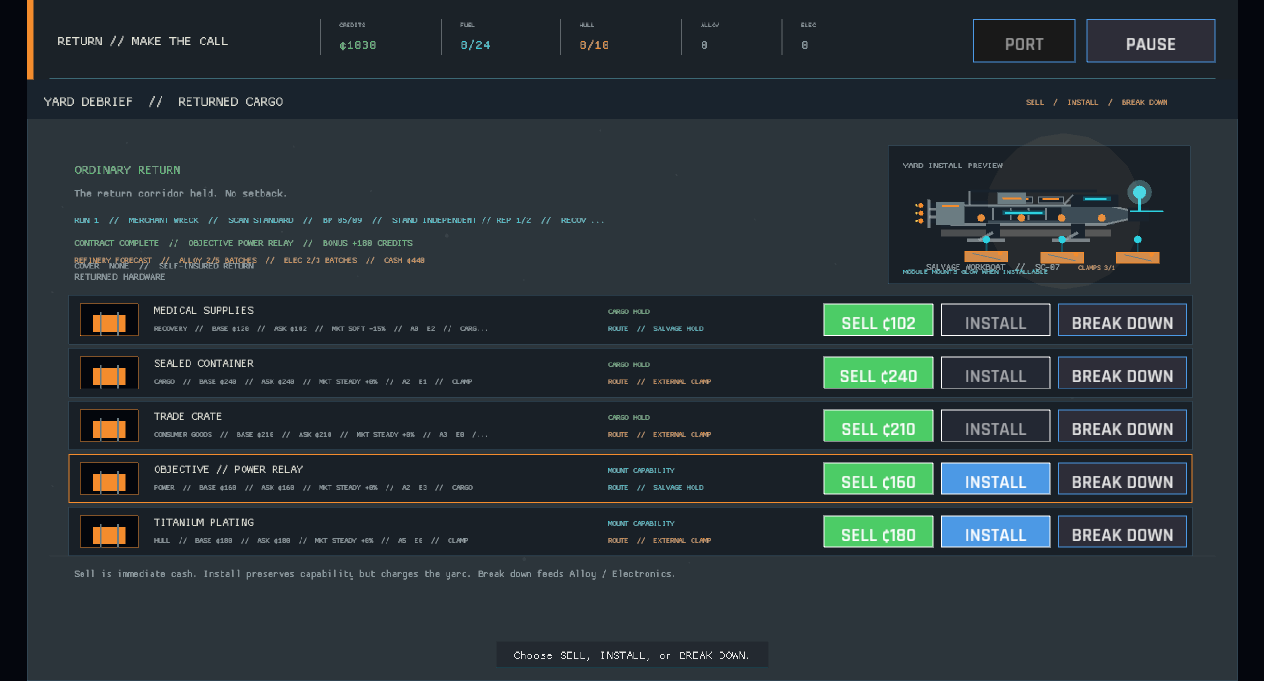
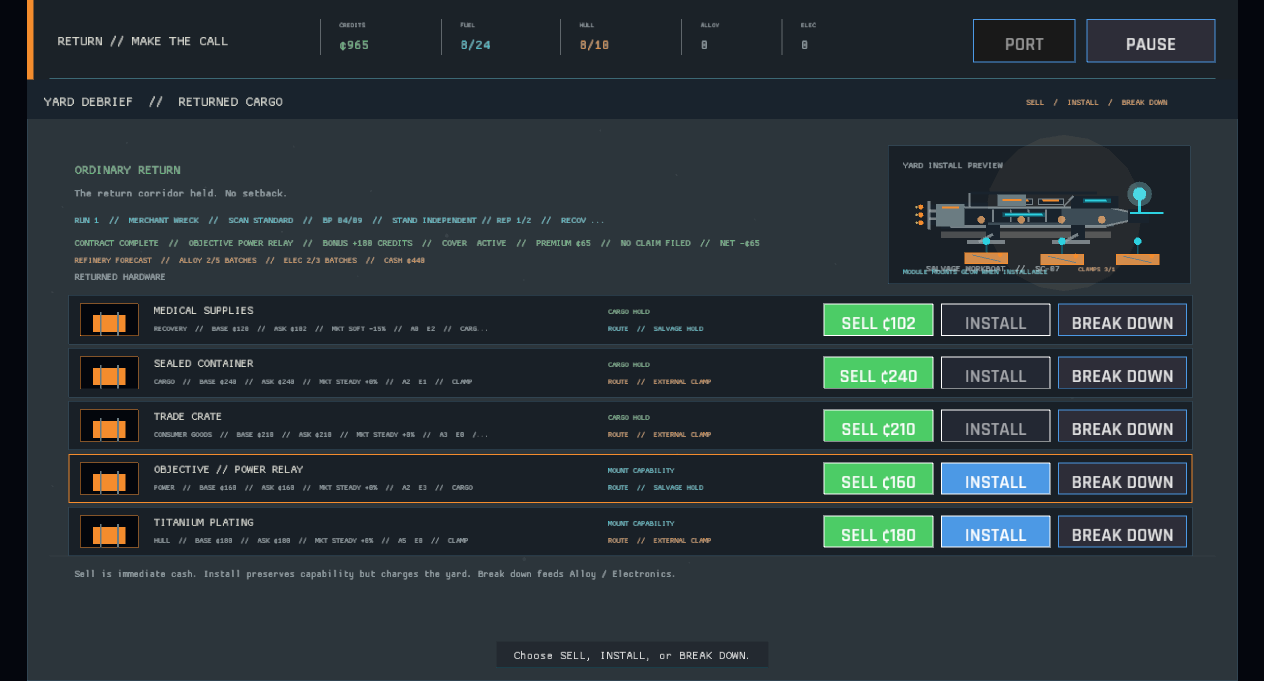
The return desk shows the true price of protection (coverage net balance)
The debrief now balances each paid premium against its settled claim and presents the result on the same contract line, keeping the refinery forecast and returned hardware clear. The insured results capture exercises the new readout for touch-scale verification.

diff --git a/src/ui/decision_panel.rs b/src/ui/decision_panel.rs
@@ -125,52 +125,37 @@ fn draw_debrief(ctx: &UiContext<'_>) {
                     )
                 },
             );
-            draw_text(
-                match objective.as_ref().map(|objective| objective.state) {
-                    Some(crate::state::contracts::ContractObjectiveState::Complete) => format!(
-                        "CONTRACT COMPLETE  //  OBJECTIVE {}  //  BONUS +{} CREDITS",
-                        target_name.to_uppercase(),
-                        site.contract_reward
-                    ),
-                    Some(crate::state::contracts::ContractObjectiveState::Failed) => format!(
-                        "CONTRACT FAILED  //  OBJECTIVE {} LOST  //  NO BONUS",
-                        target_name.to_uppercase()
-                    ),
-                    _ => format!(
-                        "CONTRACT OPEN  //  OBJECTIVE {}  //  +{} CREDITS",
-                        target_name.to_uppercase(),
-                        site.contract_reward
-                    ),
-                },
-                50.0,
-                260.0,
-                12.0,
-                match objective.as_ref().map(|objective| objective.state) {
-                    Some(crate::state::contracts::ContractObjectiveState::Complete) => {
-                        visual_theme::safe()
-                    }
-                    Some(crate::state::contracts::ContractObjectiveState::Failed) => {
-                        visual_theme::warning()
-                    }
-                    _ => visual_theme::amber(),
-                },
+            let contract_label = match objective.as_ref().map(|objective| objective.state) {
+                Some(crate::state::contracts::ContractObjectiveState::Complete) => format!(
+                    "CONTRACT COMPLETE  //  OBJECTIVE {}  //  BONUS +{} CREDITS",
+                    target_name.to_uppercase(),
+                    site.contract_reward
+                ),
+                Some(crate::state::contracts::ContractObjectiveState::Failed) => format!(
+                    "CONTRACT FAILED  //  OBJECTIVE {} LOST  //  NO BONUS",
+                    target_name.to_uppercase()
+                ),
+                _ => format!(
+                    "CONTRACT OPEN  //  OBJECTIVE {}  //  +{} CREDITS",
+                    target_name.to_uppercase(),
+                    site.contract_reward
+                ),
+            };
+            let contract_color = match objective.as_ref().map(|objective| objective.state) {
+                Some(crate::state::contracts::ContractObjectiveState::Complete) => {
+                    visual_theme::safe()
+                }
+                Some(crate::state::contracts::ContractObjectiveState::Failed) => {
+                    visual_theme::warning()
+                }
+                _ => visual_theme::amber(),
+            };
+            let contract_readout = ctx.session.last_voyage().map_or_else(
+                || contract_label.clone(),
+                |record| format!("{contract_label}  //  {}", insurance_debrief_label(record)),
             );
+            draw_text(contract_readout, 50.0, 260.0, 12.0, contract_color);
         }
-    }
-    if let Some(record) = ctx.session.last_voyage() {
-        draw_text(
-            &insurance_debrief_label(record),
-            50.0,
-            284.0,
-            12.0,
-            if record.insurance_payout > 0 {
-                visual_theme::safe()
-            } else if record.insured {
-                visual_theme::cyan()
-            } else {
-                visual_theme::text_dim()
-            },
-        );
     }
 }
 
@@ -180,14 +165,26 @@ fn insurance_debrief_label(record: &VoyageRecord) -> String {
     }
     if record.insurance_payout > 0 {
         format!(
-            "COVER  ACTIVE  //  PREMIUM ¢{}  //  CLAIM PAID ¢{}",
-            record.insurance_premium, record.insurance_payout
+            "COVER  ACTIVE  //  PREMIUM ¢{}  //  CLAIM PAID ¢{}  //  {}",
+            record.insurance_premium,
+            record.insurance_payout,
+            insurance_balance_label(record.insurance_premium, record.insurance_payout)
         )
     } else {
         format!(
-            "COVER  ACTIVE  //  PREMIUM ¢{}  //  NO CLAIM FILED",
-            record.insurance_premium
+            "COVER  ACTIVE  //  PREMIUM ¢{}  //  NO CLAIM FILED  //  {}",
+            record.insurance_premium,
+            insurance_balance_label(record.insurance_premium, record.insurance_payout)
         )
+    }
+}
+
+fn insurance_balance_label(premium: i64, payout: i64) -> String {
+    let balance = payout - premium;
+    if balance >= 0 {
+        format!("NET +¢{balance}")
+    } else {
+        format!("NET -¢{}", balance.abs())
     }
 }
 

diff --git a/src/game/capture.rs b/src/game/capture.rs
@@ -504,7 +504,9 @@ impl Game {
                 GameState::SalvagePacking
             }
             "results" => {
-                let _ = self.session.begin_expedition("merchant_wreck", &self.data);
+                let _ =
+                    self.session
+                        .begin_expedition_with_coverage("merchant_wreck", &self.data, true);
                 let _ = self.session.scan_workspace(&self.data);
                 if let Some(expedition) = self.session.expedition.as_mut() {
                     for item in &mut expedition.cargo {

diff --git a/src/ui/decision_panel/tests.rs b/src/ui/decision_panel/tests.rs
@@ -33,6 +33,12 @@ fn debrief_names_the_current_contract_standing() {
 }
 
 #[test]
+fn debrief_balances_cover_premium_against_claim_payout() {
+    assert_eq!(insurance_balance_label(65, 0), "NET -¢65");
+    assert_eq!(insurance_balance_label(65, 120), "NET +¢55");
+}
+
+#[test]
 fn returned_item_quote_is_available_for_the_disposition_readout() {
     let data = crate::data::GameData::load().unwrap();
     let mut session = GameSession::new(&data);
